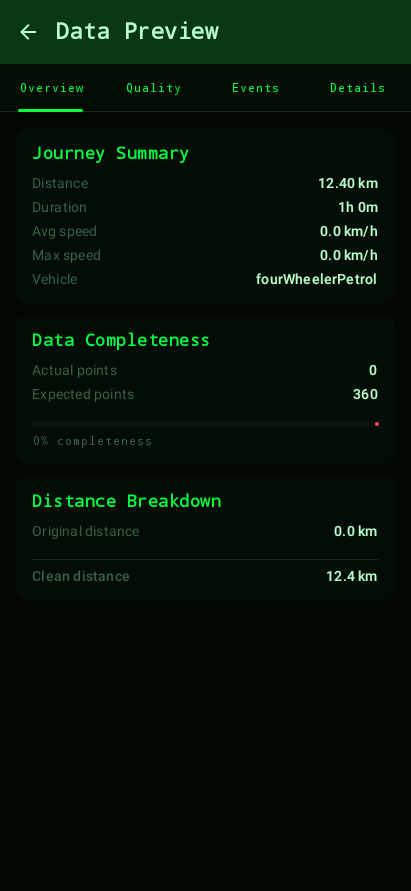
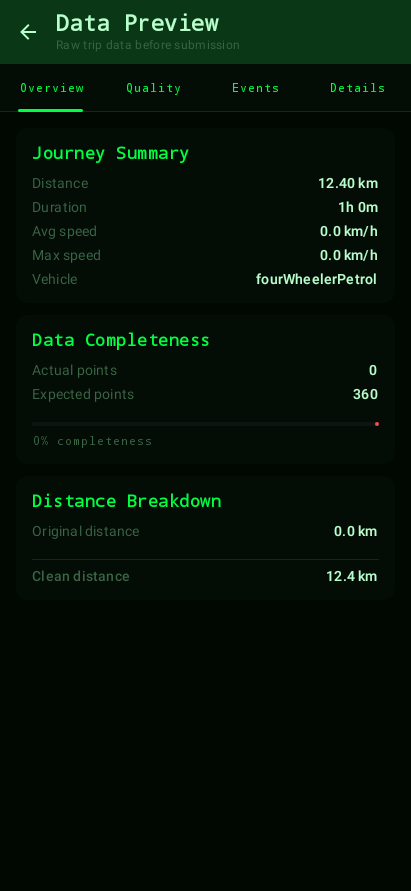
feat(ui): topbar subtitles, world map fix & dark screenshot refresh
- Add subtitle line to every DepthAwareTopBar that was missing one:
  GeoCheckIn, RoutePoints, CheckInHistory, HardwareEventsLog,
  TrackDetail, ManualCheckIn, TrackInsights, TrackDataPreview,
  CreateVoucher (dynamic per-step), HelpScreen, SettingsScreen

- Convert remaining plain TopAppBar screens to DepthAwareTopBar
  with subtitles: AgentHistory, CardsHome, CardDetail,
  CardRequest, LiveTrack

- Fix HomeProfileHeader world map: was tinted solid white (invisible on
  dark gradient); now renders at 18% alpha with no tint so the
  map silhouette is actually visible over the Matrix green header

- Refresh 14 docs/screenshots after subtitle additions so the gallery
  shows current Matrix dark theme; update README hero row to reference
  auto-generated dark screenshots instead of stale manually-captured ones

Changed region(s): [[0.1168, 0.0, 0.5547, 0.0606]]

diff --git a/feature/cards/src/commonMain/kotlin/com/miletracker/feature/cards/ui/CardDetailScreen.kt b/feature/cards/src/commonMain/kotlin/com/miletracker/feature/cards/ui/CardDetailScreen.kt
@@ -32,8 +32,9 @@ import androidx.compose.material3.Scaffold
 import androidx.compose.material3.ScrollableTabRow
 import androidx.compose.material3.Tab
 import androidx.compose.material3.Text
-import androidx.compose.material3.TopAppBar
 import androidx.compose.material3.rememberModalBottomSheetState
+import com.miletracker.core.ui.components.topbar.DepthAwareTopBar
+import com.miletracker.core.ui.theme.DesignTokens.NavigationDepth
 import androidx.compose.runtime.Composable
 import androidx.compose.runtime.LaunchedEffect
 import androidx.compose.runtime.getValue
@@ -99,8 +100,10 @@ internal fun CardDetailContent(
 ) {
     Scaffold(
         topBar = {
-            TopAppBar(
-                title = { Text("Card details") },
+            DepthAwareTopBar(
+                title = "Card details",
+                subtitle = "Transactions & controls",
+                depth = NavigationDepth.LEVEL_2,
                 navigationIcon = {
                     IconButton(onClick = onBack) {
                         Icon(Icons.AutoMirrored.Filled.ArrowBack, contentDescription = "Back")

diff --git a/feature/agent/src/commonMain/kotlin/com/miletracker/feature/agent/ui/screens/AgentHistoryScreen.kt b/feature/agent/src/commonMain/kotlin/com/miletracker/feature/agent/ui/screens/AgentHistoryScreen.kt
@@ -22,7 +22,8 @@ import androidx.compose.material3.IconButton
 import androidx.compose.material3.MaterialTheme
 import androidx.compose.material3.Scaffold
 import androidx.compose.material3.Text
-import androidx.compose.material3.TopAppBar
+import com.miletracker.core.ui.components.topbar.DepthAwareTopBar
+import com.miletracker.core.ui.theme.DesignTokens.NavigationDepth
 import androidx.compose.runtime.Composable
 import androidx.compose.runtime.collectAsState
 import androidx.compose.runtime.getValue
@@ -46,8 +47,10 @@ fun AgentHistoryScreen(
 
     Scaffold(
         topBar = {
-            TopAppBar(
-                title = { Text("Chat History", fontWeight = FontWeight.SemiBold) },
+            DepthAwareTopBar(
+                title = "Chat History",
+                subtitle = "Previous AI conversations",
+                depth = NavigationDepth.LEVEL_1,
                 navigationIcon = {
                     IconButton(onClick = onBack) {
                         Icon(Icons.AutoMirrored.Filled.ArrowBack, contentDescription = "Back")

diff --git a/feature/cards/src/commonMain/kotlin/com/miletracker/feature/cards/ui/CardsHomeScreen.kt b/feature/cards/src/commonMain/kotlin/com/miletracker/feature/cards/ui/CardsHomeScreen.kt
@@ -20,7 +20,8 @@ import androidx.compose.material3.Scaffold
 import androidx.compose.material3.Tab
 import androidx.compose.material3.TabRow
 import androidx.compose.material3.Text
-import androidx.compose.material3.TopAppBar
+import com.miletracker.core.ui.components.topbar.DepthAwareTopBar
+import com.miletracker.core.ui.theme.DesignTokens.NavigationDepth
 import androidx.compose.runtime.Composable
 import androidx.compose.runtime.getValue
 import androidx.compose.ui.Modifier
@@ -60,7 +61,13 @@ internal fun CardsHomeContent(
     onRequestCard: () -> Unit,
 ) {
     Scaffold(
-        topBar = { TopAppBar(title = { Text("Cards") }) },
+        topBar = {
+            DepthAwareTopBar(
+                title = "Cards",
+                subtitle = "Virtual cards & requests",
+                depth = NavigationDepth.LEVEL_1,
+            )
+        },
         floatingActionButton = {
             FloatingActionButton(onClick = onRequestCard) {
                 Icon(Icons.Filled.Add, contentDescription = "Request a card")

diff --git a/feature/cards/src/commonMain/kotlin/com/miletracker/feature/cards/ui/CardRequestScreen.kt b/feature/cards/src/commonMain/kotlin/com/miletracker/feature/cards/ui/CardRequestScreen.kt
@@ -26,6 +26,8 @@ import androidx.compose.material3.OutlinedTextField
 import androidx.compose.material3.RadioButton
 import androidx.compose.material3.Scaffold
 import androidx.compose.material3.Text
+import com.miletracker.core.ui.components.topbar.DepthAwareTopBar
+import com.miletracker.core.ui.theme.DesignTokens.NavigationDepth
 import androidx.compose.runtime.Composable
 import androidx.compose.runtime.LaunchedEffect
 import androidx.compose.runtime.getValue
@@ -69,8 +71,10 @@ internal fun CardRequestContent(
 ) {
     Scaffold(
         topBar = {
-            androidx.compose.material3.TopAppBar(
-                title = { Text("Request a card") },
+            DepthAwareTopBar(
+                title = "Request a card",
+                subtitle = "KYC-lite application form",
+                depth = NavigationDepth.LEVEL_2,
                 navigationIcon = {
                     IconButton(onClick = onDone) {
                         Icon(Icons.AutoMirrored.Filled.ArrowBack, contentDescription = "Back")

diff --git a/feature/tracking/src/commonMain/kotlin/com/miletracker/feature/tracking/ui/screens/LiveTrackScreen.kt b/feature/tracking/src/commonMain/kotlin/com/miletracker/feature/tracking/ui/screens/LiveTrackScreen.kt
@@ -19,7 +19,8 @@ import androidx.compose.material3.IconButton
 import androidx.compose.material3.MaterialTheme
 import androidx.compose.material3.Scaffold
 import androidx.compose.material3.Text
-import androidx.compose.material3.TopAppBar
+import com.miletracker.core.ui.components.topbar.DepthAwareTopBar
+import com.miletracker.core.ui.theme.DesignTokens.NavigationDepth
 import androidx.compose.runtime.Composable
 import androidx.compose.runtime.LaunchedEffect
 import androidx.compose.runtime.collectAsState
@@ -52,8 +53,10 @@ fun LiveTrackScreen(
 
     Scaffold(
         topBar = {
-            TopAppBar(
-                title = { Text("Live Tracking") },
+            DepthAwareTopBar(
+                title = "Live Tracking",
+                subtitle = "Journey in progress",
+                depth = NavigationDepth.LEVEL_1,
                 navigationIcon = {
                     IconButton(onClick = onBack) {
                         Icon(Icons.AutoMirrored.Filled.ArrowBack, contentDescription = "Back")

diff --git a/feature/tracking/src/commonMain/kotlin/com/miletracker/feature/tracking/ui/screens/CreateVoucherScreen.kt b/feature/tracking/src/commonMain/kotlin/com/miletracker/feature/tracking/ui/screens/CreateVoucherScreen.kt
@@ -87,6 +87,13 @@ fun CreateVoucherScreen(
                         2 -> "Confirmation"
                         else -> "Voucher Created"
                     },
+                subtitle =
+                    when (uiState.step) {
+                        0 -> "Select trips to reimburse"
+                        1 -> "Add claim details"
+                        2 -> "Review and submit"
+                        else -> "Claim submitted"
+                    },
                 depth = NavigationDepth.LEVEL_2,
                 navigationIcon = {
                     IconButton(onClick = {

diff --git a/app/src/main/java/com/miletracker/ui/home/HomeComponents.kt b/app/src/main/java/com/miletracker/ui/home/HomeComponents.kt
@@ -160,8 +160,8 @@ fun HomeProfileHeader(
             contentDescription = null,
             modifier = Modifier.fillMaxSize(),
             contentScale = ContentScale.Crop,
-            alpha = 0.35f,
-            colorFilter = ColorFilter.tint(Color.White),
+            alpha = 0.18f,
+            colorFilter = null,
         )
         // Terminal scanline overlay
         ScanlineOverlay(lineAlpha = 0.04f)

diff --git a/feature/tracking/src/commonMain/kotlin/com/miletracker/feature/tracking/ui/screens/RoutePointsScreen.kt b/feature/tracking/src/commonMain/kotlin/com/miletracker/feature/tracking/ui/screens/RoutePointsScreen.kt
@@ -80,6 +80,7 @@ fun RoutePointsScreen(
         topBar = {
             DepthAwareTopBar(
                 title = ui.totalPoints?.let { "Route Points ($it)" } ?: "Route Points",
+                subtitle = "Raw GPS coordinates for this trip",
                 depth = NavigationDepth.LEVEL_2,
                 navigationIcon = {
                     IconButton(onClick = onBack) {

diff --git a/feature/tracking/src/commonMain/kotlin/com/miletracker/feature/tracking/ui/screens/HardwareEventsLogScreen.kt b/feature/tracking/src/commonMain/kotlin/com/miletracker/feature/tracking/ui/screens/HardwareEventsLogScreen.kt
@@ -146,6 +146,7 @@ fun HardwareEventsLogScreen(
         topBar = {
             DepthAwareTopBar(
                 title = "Hardware Events (${stats.totalCount})",
+                subtitle = "Sensor & motion event log",
                 depth = NavigationDepth.LEVEL_2,
                 navigationIcon = {
                     IconButton(onClick = onBack) {

diff --git a/feature/tracking/src/commonMain/kotlin/com/miletracker/feature/tracking/ui/screens/TrackDetailScreen.kt b/feature/tracking/src/commonMain/kotlin/com/miletracker/feature/tracking/ui/screens/TrackDetailScreen.kt
@@ -123,6 +123,7 @@ fun TrackDetailScreen(
         topBar = {
             DepthAwareTopBar(
                 title = uiState.track?.name ?: "Journey Details",
+                subtitle = "Journey overview & actions",
                 depth = NavigationDepth.LEVEL_1,
                 navigationIcon = {
                     IconButton(onClick = onBack) {

diff --git a/feature/profile/src/commonMain/kotlin/com/miletracker/feature/profile/ui/screens/HelpScreen.kt b/feature/profile/src/commonMain/kotlin/com/miletracker/feature/profile/ui/screens/HelpScreen.kt
@@ -167,6 +167,7 @@ fun HelpScreen(onBack: () -> Unit) {
         topBar = {
             DepthAwareTopBar(
                 title = "Help & Support",
+                subtitle = "Browse FAQs & contact support",
                 depth = NavigationDepth.LEVEL_1,
                 navigationIcon = {
                     IconButton(onClick = onBack) {

diff --git a/feature/tracking/src/commonMain/kotlin/com/miletracker/feature/tracking/ui/screens/TrackDataPreviewScreen.kt b/feature/tracking/src/commonMain/kotlin/com/miletracker/feature/tracking/ui/screens/TrackDataPreviewScreen.kt
@@ -119,6 +119,7 @@ fun TrackDataPreviewScreen(
         topBar = {
             DepthAwareTopBar(
                 title = "Data Preview",
+                subtitle = "Raw trip data before submission",
                 depth = NavigationDepth.LEVEL_2,
                 navigationIcon = {
                     IconButton(onClick = onBack) {
